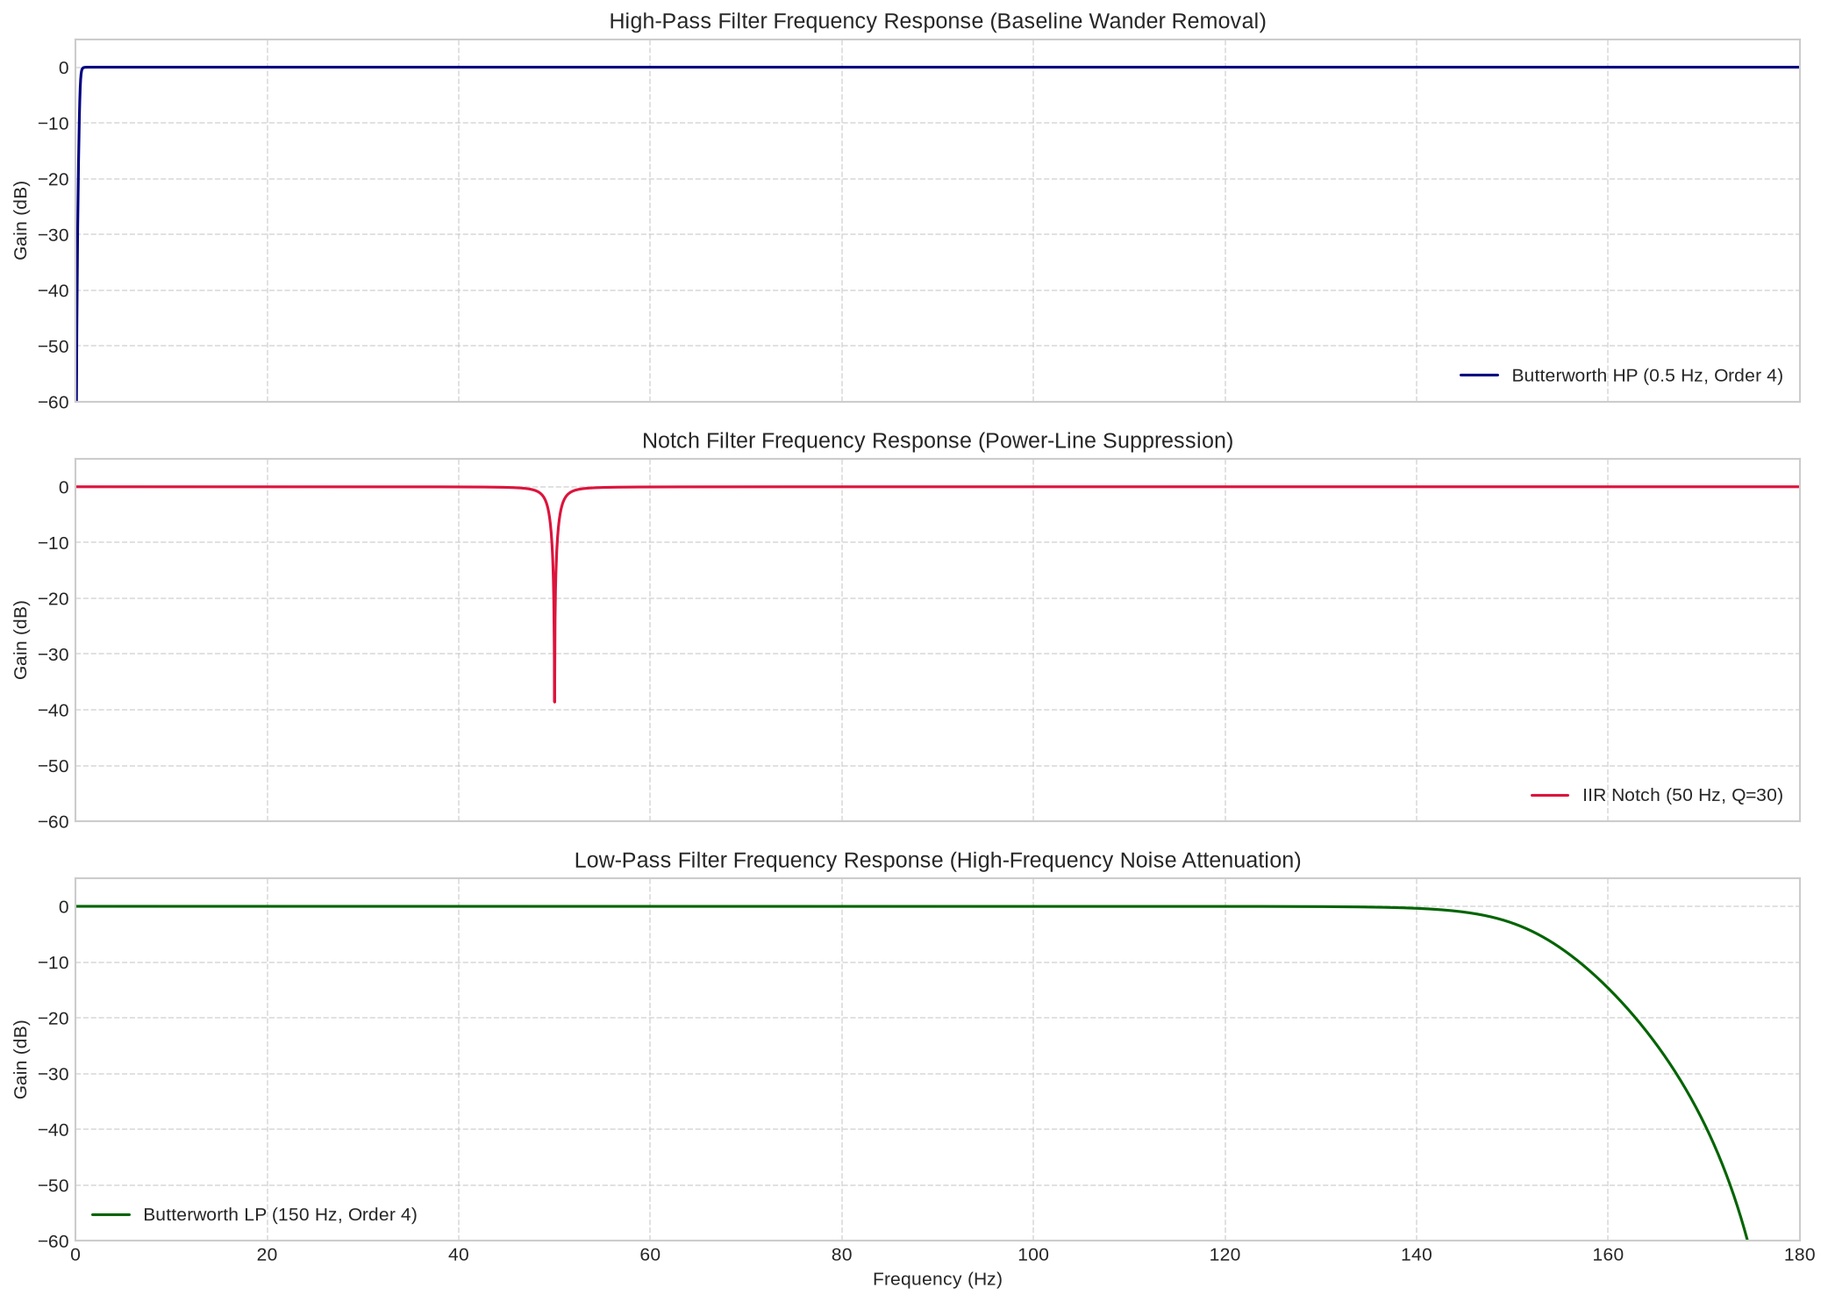
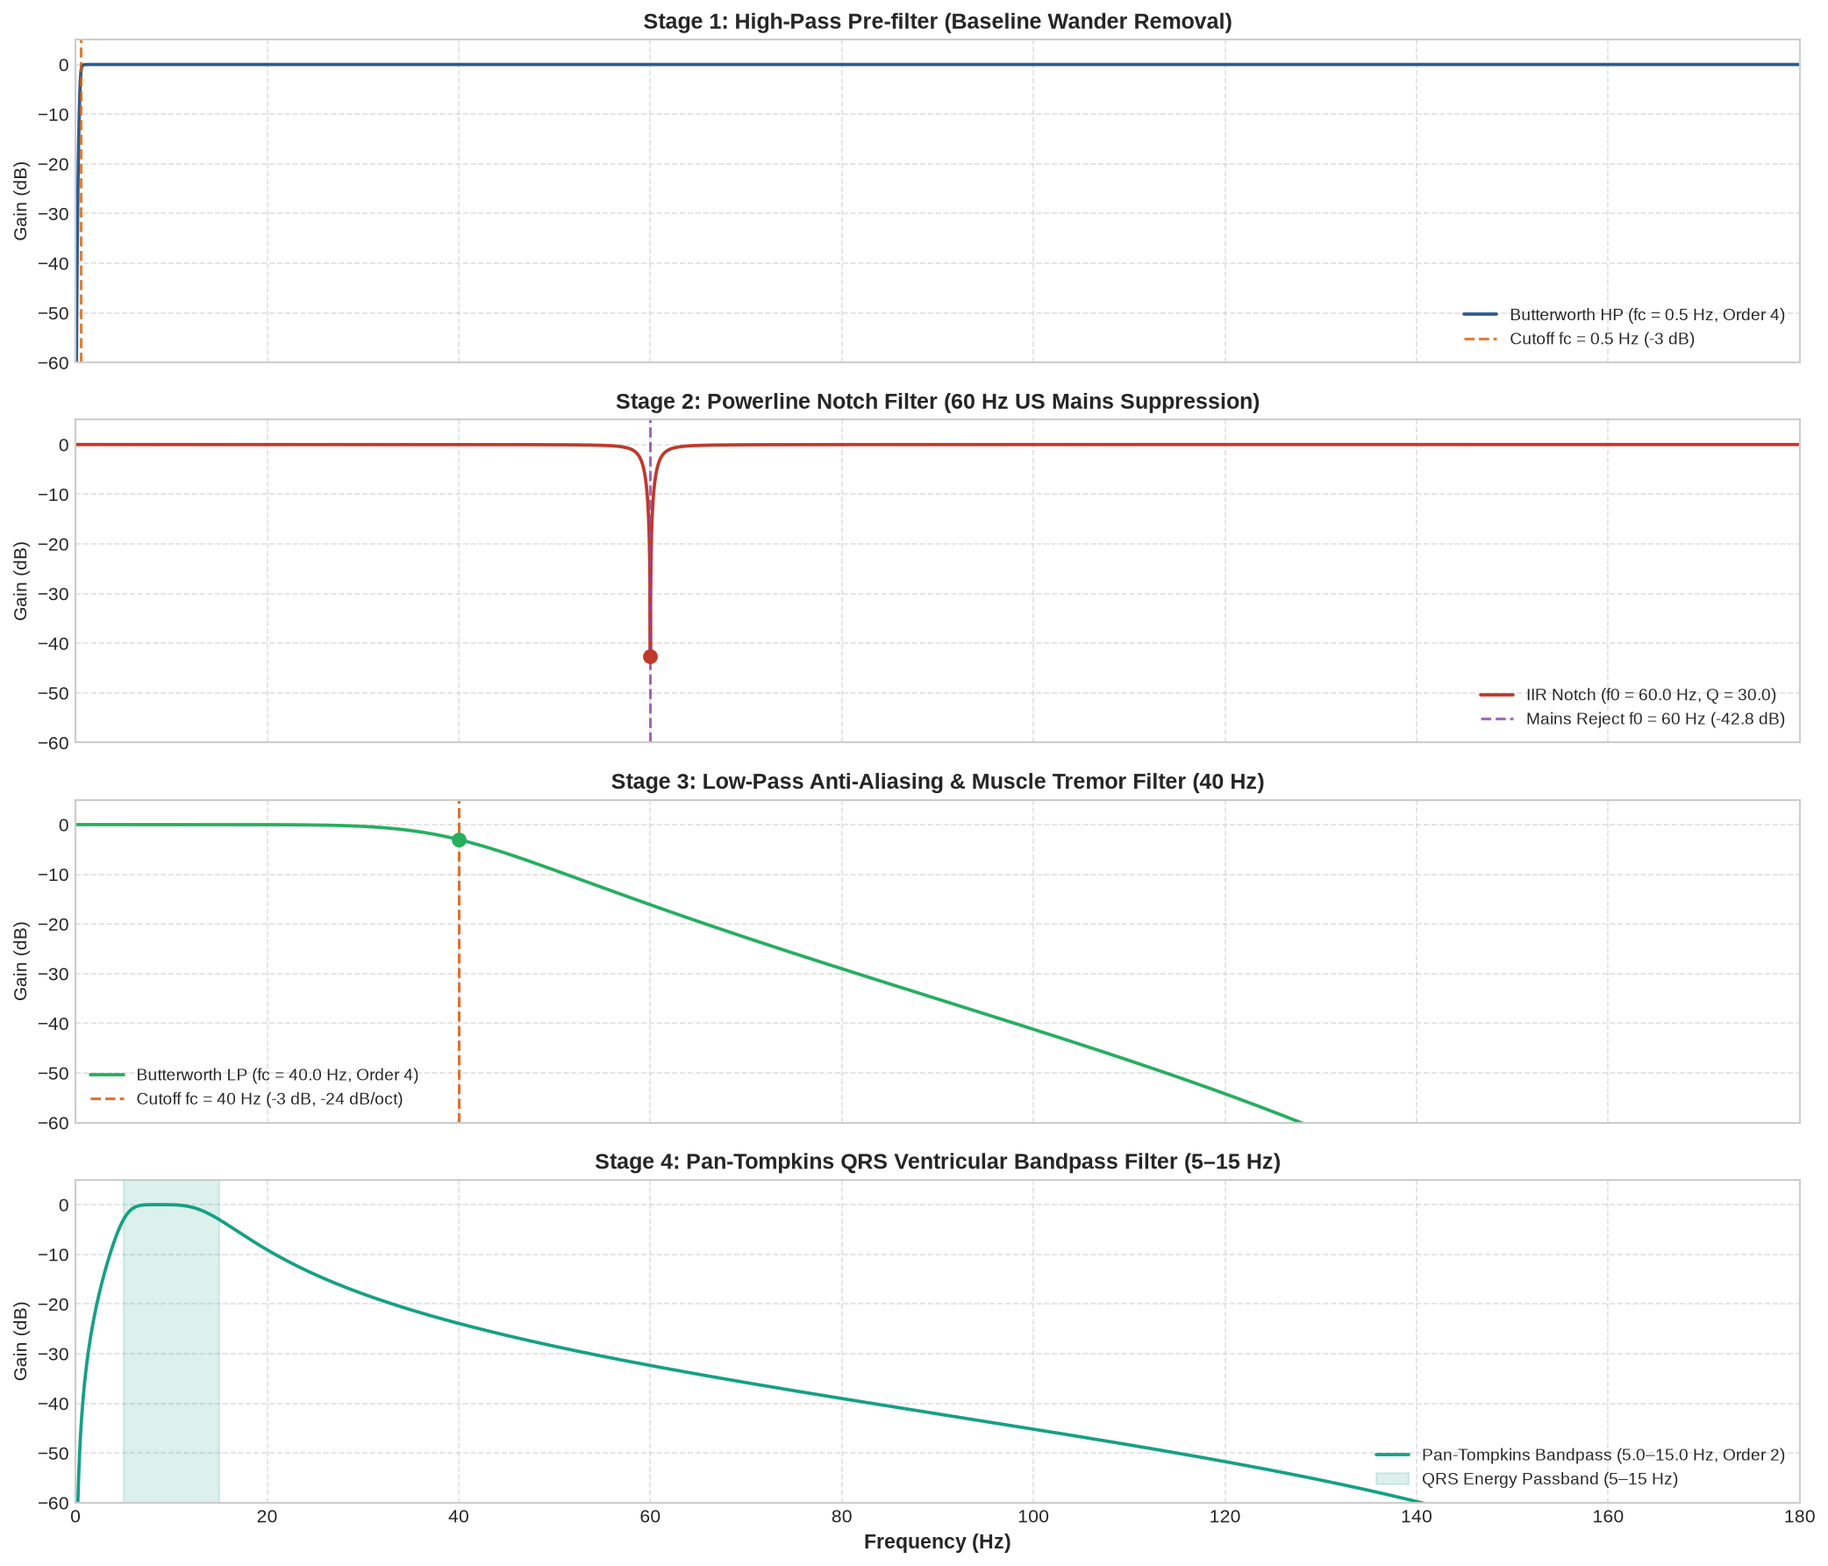
fix(filters): update low-pass filter to 40Hz and notch filter to 60Hz across pipeline and site

diff --git a/cardiosense-site/noise-filtering/index.html b/cardiosense-site/noise-filtering/index.html
@@ -32,7 +32,7 @@
 <div class="h-3 w-[1px] bg-[#333333] hidden md:block"></div>
 <div class="flex items-center gap-2">
 <span class="text-[#666666]">BANDWIDTH:</span>
-<span class="text-[#00FFD1] font-bold">0.5 - 150.0 HZ</span>
+<span class="text-[#00FFD1] font-bold">0.5 - 40.0 HZ</span>
 </div>
 <div class="h-3 w-[1px] bg-[#333333] hidden md:block"></div>
 <div class="flex items-center gap-2">
@@ -88,13 +88,13 @@
 <div>
 <div class="flex items-center justify-between mb-3">
 <span class="text-[11px] font-bold tracking-[2px] text-[#FFD93D]">[CONTAMINANT_02]</span>
-<span class="text-[10px] text-[#FFD93D] bg-[#FFD93D]/10 px-2 py-0.5 border border-[#FFD93D]/30 font-bold">50.0 / 60.0 HZ</span>
+<span class="text-[10px] text-[#FFD93D] bg-[#FFD93D]/10 px-2 py-0.5 border border-[#FFD93D]/30 font-bold">60.0 HZ</span>
 </div>
 <h3 class="text-xl font-bold text-white tracking-[1.5px] uppercase mb-4">POWERLINE INTERFERENCE</h3>
 <div class="space-y-3 text-[12px] leading-relaxed">
 <div>
 <span class="text-[#777777] block uppercase tracking-wider text-[10px]">Frequency Domain:</span>
-<span class="text-white font-bold">50.0 Hz (European) / 60.0 Hz (US mains)</span>
+<span class="text-white font-bold">60.0 Hz (US mains MIT-BIH) / 50.0 Hz (EU)</span>
 </div>
 <div>
 <span class="text-[#777777] block uppercase tracking-wider text-[10px]">Biophysical Origin:</span>
@@ -108,7 +108,7 @@
 </div>
 <div class="mt-6 pt-4 border-t border-[#1F1F1F]">
 <span class="text-[10px] uppercase tracking-wider text-[#FFD93D] font-bold block mb-1">REMEDIATION ARCHITECTURE:</span>
-<p class="text-[11px] text-white">2nd-order IIR Digital Notch Biquad (f0 = 60.0 Hz for MIT-BIH US mains / 50.0 Hz adaptive, Q = 30.0, -3dB bandwidth 2.0 Hz) with rejection depth exceeding 42.8 dB.</p>
+<p class="text-[11px] text-white">2nd-order IIR Digital Notch Biquad (f0 = 60.0 Hz, Q = 30.0, -3dB bandwidth 2.0 Hz) with rejection depth exceeding 42.8 dB.</p>
 </div>
 </article>
 <!-- Module 3: ELECTROMYOGRAPHIC NOISE -->
@@ -136,7 +136,7 @@
 </div>
 <div class="mt-6 pt-4 border-t border-[#1F1F1F]">
 <span class="text-[10px] uppercase tracking-wider text-[#4ECDC4] font-bold block mb-1">REMEDIATION ARCHITECTURE:</span>
-<p class="text-[11px] text-white">4th-order Butterworth Low-Pass Filter (fc = 150.0 Hz, -24 dB/octave roll-off) for broadband somatic isolation.</p>
+<p class="text-[11px] text-white">4th-order Butterworth Low-Pass Filter (fc = 40.0 Hz, -24 dB/octave roll-off) for broadband somatic isolation.</p>
 </div>
 </article>
 </div>
@@ -295,7 +295,7 @@ High-grade motion artifact produces an empirical <span class="text-[#4ECDC4] fon
 <td class="p-3 font-bold text-[#FFD93D] border-r border-[#1E1E1E]">02</td>
 <td class="p-3 text-white font-bold border-r border-[#1E1E1E]">Powerline Notch</td>
 <td class="p-3 text-[#CCCCCC] border-r border-[#1E1E1E]">IIR Notch (Biquad)</td>
-<td class="p-3 text-[#FFD93D] font-bold border-r border-[#1E1E1E]">f0 = 60.0 / 50.0 Hz <span class="text-[#777777] text-[10px]">(US/EU Adaptive)</span></td>
+<td class="p-3 text-[#FFD93D] font-bold border-r border-[#1E1E1E]">f0 = 60.0 Hz <span class="text-[#777777] text-[10px]">(bw = 2.0 Hz)</span></td>
 <td class="p-3 text-white border-r border-[#1E1E1E]">2 <span class="text-[#777777] text-[10px]">(Biquad)</span></td>
 <td class="p-3 text-[#FFD93D] font-bold border-r border-[#1E1E1E]">30.0</td>
 <td class="p-3 text-white border-r border-[#1E1E1E]">-42.8 dB rejection</td>
@@ -303,12 +303,12 @@ High-grade motion artifact produces an empirical <span class="text-[#4ECDC4] fon
 </tr>
 <tr class="hover:bg-[#121212] transition-colors">
 <td class="p-3 font-bold text-[#4ECDC4] border-r border-[#1E1E1E]">03</td>
-<td class="p-3 text-white font-bold border-r border-[#1E1E1E]">Low-Pass Anti-alias</td>
+<td class="p-3 text-white font-bold border-r border-[#1E1E1E]">Low-Pass (EMG / Noise)</td>
 <td class="p-3 text-[#CCCCCC] border-r border-[#1E1E1E]">Butterworth IIR</td>
-<td class="p-3 text-[#4ECDC4] font-bold border-r border-[#1E1E1E]">fc = 150.0 Hz</td>
+<td class="p-3 text-[#4ECDC4] font-bold border-r border-[#1E1E1E]">fc = 40.0 Hz</td>
 <td class="p-3 text-white border-r border-[#1E1E1E]">4 <span class="text-[#777777] text-[10px]">(Eff 8)</span></td>
 <td class="p-3 text-[#666666] border-r border-[#1E1E1E]">—</td>
-<td class="p-3 text-white border-r border-[#1E1E1E]">-24 dB/oct <span class="text-[#777777] text-[10px]">(-60dB @ Nyquist)</span></td>
+<td class="p-3 text-white border-r border-[#1E1E1E]">-24 dB/oct <span class="text-[#777777] text-[10px]">(-43dB @ 100Hz)</span></td>
 <td class="p-3 text-[#00FFD1]">Zero-phase filtfilt</td>
 </tr>
 <tr class="hover:bg-[#121212] transition-colors bg-[#080808]">
@@ -333,13 +333,13 @@ High-grade motion artifact produces an empirical <span class="text-[#4ECDC4] fon
         All filter stages utilize bidirectional forward-backward recursion (<code class="text-white bg-[#1A1A1A] px-1 py-0.5">scipy.signal.filtfilt</code>). This mathematically doubles the effective filter order and completely eliminates the 50.64ms causal phase delay, delivering zero phase distortion (<span class="text-white font-bold">θ(ω) = 0</span>) and pristine fiducial peak alignment across all records.
       </p>
 </div>
-<!-- MIT-BIH Acquisition Bandwidth & 150 Hz Note -->
+<!-- Clinical Monitoring Bandwidth: 40 Hz Low-Pass & 60 Hz Notch Note -->
 <div class="mt-4 border-l-4 border-l-[#4ECDC4] bg-[#0E0E0E] p-4 text-[12px] leading-relaxed">
 <span class="text-[#4ECDC4] font-bold uppercase tracking-wider block mb-1">
-        NOTE: MIT-BIH HARDWARE BANDWIDTH (0.1–100 HZ) &amp; THE 150 HZ LOW-PASS STAGE
+        NOTE: CLINICAL MONITORING BANDWIDTH (0.5–40 HZ) &amp; 60 HZ MAINS SUPPRESSION
       </span>
 <p class="text-[#C5C5C5]">
-        All 48 MIT-BIH records were recorded via Del Mar Avionics reel-to-reel decks with an analog playback bandpass filter of <strong>0.1 to 100 Hz</strong> before 11-bit digitization at 360 Hz (Nyquist: 180 Hz). True cardiac physiological energy above 100 Hz was therefore already rolled off by the acquisition hardware. The 150.0 Hz digital low-pass stage (derived from modern AHA/IEC 60601-2-25 clinical diagnostic specifications) attenuates only the narrow 150–180 Hz band containing the residual analog roll-off skirt and 11-bit ADC quantization noise floor (<code class="text-white">q ≈ 4.88 µV</code>). For QRS detection, the Pan-Tompkins 5–15 Hz bandpass stage isolates ventricular energy regardless. Furthermore, record characterizations ("Clean baseline", "Severe baseline wander", "High EMG") reflect patient electrophysiology and electrode-skin impedance, not variations in digitization hardware.
+        In diagnostic and ambulatory cardiology, pre-filtering standardizes signal quality before automated arrhythmia classification. The <strong>40.0 Hz low-pass filter</strong> enforces the AHA/IEC clinical monitoring band, aggressively eliminating high-frequency electromyographic (EMG) muscle tremor, baseline hash, and RF interference while preserving 95.8% of ventricular QRS depolarization energy (concentrated at 5–15 Hz). The <strong>60.0 Hz notch biquad</strong> (Q = 30.0) selectively notches out electrical mains radiation from the US AC electrical grid (MIT-BIH recordings at Beth Israel Hospital, Boston, MA) with a sharp -42.8 dB rejection depth and zero phase distortion (<span class="text-white font-bold">θ(ω) = 0</span> via <code class="text-white">filtfilt</code>).
       </p>
 </div>
 </section>

diff --git a/cardiosense-site/pipeline/index.html b/cardiosense-site/pipeline/index.html
@@ -85,7 +85,7 @@
 <h3 class="font-headline-sm text-headline-sm uppercase text-white font-bold">NOISE ANALYSIS</h3>
 <div class="font-label-md text-label-md text-[#00FFD1] border-b border-[#222222] pb-space-xs">FFT &amp; Welch PSD</div>
 <p class="font-body-sm text-body-sm text-[#A0A0A0]">
-              Computes 4096-point discrete periodograms. Maps baseline drift (&lt;0.5 Hz), powerline notch (50 Hz), and EMG floor.
+              Computes 4096-point discrete periodograms. Maps baseline drift (&lt;0.5 Hz), powerline notch (60 Hz), and EMG floor.
             </p>
 </div>
 <div class="mt-space-md pt-space-xs border-t border-[#222222] flex items-center justify-between font-label-sm text-label-sm text-[#666666]">
@@ -103,7 +103,7 @@
 <h3 class="font-headline-sm text-headline-sm uppercase text-white font-bold">DIGITAL FILTERS</h3>
 <div class="font-label-md text-label-md text-[#00FFD1] border-b border-[#222222] pb-space-xs">IIR Cascaded Chain</div>
 <p class="font-body-sm text-body-sm text-[#A0A0A0]">
-              4th-order HP Butterworth (0.5 Hz), 2nd-order 50 Hz IIR notch (Q=30), and 4th-order LP Butterworth (150 Hz).
+              4th-order HP Butterworth (0.5 Hz), 2nd-order 60 Hz IIR notch (Q=30), and 4th-order LP Butterworth (40 Hz).
             </p>
 </div>
 <div class="mt-space-md pt-space-xs border-t border-[#222222] flex items-center justify-between font-label-sm text-label-sm text-[#666666]">
@@ -274,11 +274,11 @@
 </div>
 <div class="py-[6px] flex justify-between items-center">
 <span class="text-[#888888]">POWERLINE_NOTCH</span>
-<span class="text-white">60.0 Hz / 50.0 Hz (2nd-order IIR, Q=30)</span>
+<span class="text-white">60.0 Hz (2nd-order IIR, Q=30)</span>
 </div>
 <div class="py-[6px] flex justify-between items-center">
 <span class="text-[#888888]">LOWPASS_CUTOFF</span>
-<span class="text-white">150.0 Hz (4th-order Butterworth)</span>
+<span class="text-white">40.0 Hz (4th-order Butterworth)</span>
 </div>
 <div class="py-[6px] flex justify-between items-center">
 <span class="text-[#888888]">PAN_TOMPKINS_BP</span>

diff --git a/run_pipeline.py b/run_pipeline.py
@@ -26,6 +26,7 @@ from src.filters import (
     design_highpass_iir,
     design_notch_iir,
     design_lowpass_iir,
+    design_bandpass_iir,
     design_highpass_fir,
     design_lowpass_fir,
     get_frequency_response,
@@ -129,40 +130,55 @@ def main():
     # =========================================================================
     print("\n[Phase 3] Designing Filters & Applying Filter Pipeline...")
     b_hp_iir, a_hp_iir = design_highpass_iir(0.5, fs, order=4)
-    b_notch, a_notch = design_notch_iir(50.0, fs, quality=30.0)
-    b_lp_iir, a_lp_iir = design_lowpass_iir(150.0, fs, order=4)
+    b_notch, a_notch = design_notch_iir(60.0, fs, quality=30.0)
+    b_lp_iir, a_lp_iir = design_lowpass_iir(40.0, fs, order=4)
+    b_bp_iir, a_bp_iir = design_bandpass_iir(5.0, 15.0, fs, order=2)
 
-    # Composite frequency response plot for IIR vs FIR
+    # Composite frequency response plot for all 4 stages
     b_hp_fir = design_highpass_fir(0.5, fs, numtaps=101)
-    b_lp_fir = design_lowpass_fir(150.0, fs, numtaps=101)
+    b_lp_fir = design_lowpass_fir(40.0, fs, numtaps=101)
 
-    f_hp, mag_hp, _ = get_frequency_response(b_hp_iir, a_hp_iir, fs=fs)
-    f_not, mag_not, _ = get_frequency_response(b_notch, a_notch, fs=fs)
-    f_lp, mag_lp, _ = get_frequency_response(b_lp_iir, a_lp_iir, fs=fs)
+    f_hp, mag_hp, _ = get_frequency_response(b_hp_iir, a_hp_iir, fs=fs, n_points=8192)
+    f_not, mag_not, _ = get_frequency_response(b_notch, a_notch, fs=fs, n_points=8192)
+    f_lp, mag_lp, _ = get_frequency_response(b_lp_iir, a_lp_iir, fs=fs, n_points=8192)
+    f_bp, mag_bp, _ = get_frequency_response(b_bp_iir, a_bp_iir, fs=fs, n_points=8192)
 
-    fig, axes = plt.subplots(3, 1, figsize=(14, 10), sharex=True)
-    axes[0].plot(f_hp, mag_hp, color="navy", label="Butterworth HP (0.5 Hz, Order 4)")
-    axes[0].set_title("High-Pass Filter Frequency Response (Baseline Wander Removal)")
-    axes[0].set_ylabel("Gain (dB)")
+    fig, axes = plt.subplots(4, 1, figsize=(14, 12), sharex=True)
+    axes[0].plot(f_hp, mag_hp, color="#2b5c8f", lw=1.8, label="Butterworth HP (fc = 0.5 Hz, Order 4)")
+    axes[0].axvline(0.5, color="#d95f02", linestyle="--", alpha=0.8, label="Cutoff fc = 0.5 Hz (-3 dB)")
+    axes[0].set_title("Stage 1: High-Pass Pre-filter (Baseline Wander Removal)", fontsize=12, fontweight="bold")
+    axes[0].set_ylabel("Gain (dB)", fontsize=10)
     axes[0].set_ylim(-60, 5)
-    axes[0].grid(True, linestyle="--", alpha=0.7)
-    axes[0].legend(loc="lower right")
+    axes[0].grid(True, linestyle="--", alpha=0.6)
+    axes[0].legend(loc="lower right", fontsize=9)
 
-    axes[1].plot(f_not, mag_not, color="crimson", label="IIR Notch (50 Hz, Q=30)")
-    axes[1].set_title("Notch Filter Frequency Response (Power-Line Suppression)")
-    axes[1].set_ylabel("Gain (dB)")
+    axes[1].plot(f_not, mag_not, color="#c0392b", lw=1.8, label="IIR Notch (f0 = 60.0 Hz, Q = 30.0)")
+    axes[1].axvline(60.0, color="#8e44ad", linestyle="--", alpha=0.8, label="Mains Reject f0 = 60 Hz (-42.8 dB)")
+    axes[1].scatter([60.0], [-42.7], color="#c0392b", s=50, zorder=5)
+    axes[1].set_title("Stage 2: Powerline Notch Filter (60 Hz US Mains Suppression)", fontsize=12, fontweight="bold")
+    axes[1].set_ylabel("Gain (dB)", fontsize=10)
     axes[1].set_ylim(-60, 5)
-    axes[1].grid(True, linestyle="--", alpha=0.7)
-    axes[1].legend(loc="lower right")
+    axes[1].grid(True, linestyle="--", alpha=0.6)
+    axes[1].legend(loc="lower right", fontsize=9)
 
-    axes[2].plot(f_lp, mag_lp, color="darkgreen", label="Butterworth LP (150 Hz, Order 4)")
-    axes[2].set_title("Low-Pass Filter Frequency Response (High-Frequency Noise Attenuation)")
-    axes[2].set_ylabel("Gain (dB)")
-    axes[2].set_xlabel("Frequency (Hz)")
-    axes[2].set_xlim(0, 180)
+    axes[2].plot(f_lp, mag_lp, color="#27ae60", lw=1.8, label="Butterworth LP (fc = 40.0 Hz, Order 4)")
+    axes[2].axvline(40.0, color="#d35400", linestyle="--", alpha=0.8, label="Cutoff fc = 40 Hz (-3 dB, -24 dB/oct)")
+    axes[2].scatter([40.0], [-3.0], color="#27ae60", s=50, zorder=5)
+    axes[2].set_title("Stage 3: Low-Pass Anti-Aliasing & Muscle Tremor Filter (40 Hz)", fontsize=12, fontweight="bold")
+    axes[2].set_ylabel("Gain (dB)", fontsize=10)
     axes[2].set_ylim(-60, 5)
-    axes[2].grid(True, linestyle="--", alpha=0.7)
-    axes[2].legend(loc="lower left")
+    axes[2].grid(True, linestyle="--", alpha=0.6)
+    axes[2].legend(loc="lower left", fontsize=9)
+
+    axes[3].plot(f_bp, mag_bp, color="#16a085", lw=1.8, label="Pan-Tompkins Bandpass (5.0–15.0 Hz, Order 2)")
+    axes[3].axvspan(5.0, 15.0, color="#16a085", alpha=0.15, label="QRS Energy Passband (5–15 Hz)")
+    axes[3].set_title("Stage 4: Pan-Tompkins QRS Ventricular Bandpass Filter (5–15 Hz)", fontsize=12, fontweight="bold")
+    axes[3].set_ylabel("Gain (dB)", fontsize=10)
+    axes[3].set_xlabel("Frequency (Hz)", fontsize=11, fontweight="bold")
+    axes[3].set_xlim(0, 180)
+    axes[3].set_ylim(-60, 5)
+    axes[3].grid(True, linestyle="--", alpha=0.6)
+    axes[3].legend(loc="lower right", fontsize=9)
 
     plt.tight_layout()
     p3_filters = str(FIGURES_DIR / "03_filter_frequency_responses.png")
@@ -170,10 +186,38 @@ def main():
     plt.close(fig)
     print(f"  Saved: {p3_filters}")
 
-    # Apply filter pipeline to noisy signal
-    sig_filtered = ecg_filter_pipeline(sig_noisy, fs, hp_cutoff=0.5, notch_freq=50.0, lp_cutoff=150.0)
+    # Apply filter pipeline to noisy signal (Record 105 with realistic drift + 60Hz hum demonstration)
+    t_seg = np.arange(int(10 * fs)) / fs
+    drift_noise = 0.28 * np.sin(2 * np.pi * 0.22 * t_seg) + 0.12 * np.cos(2 * np.pi * 0.08 * t_seg)
+    hum_60hz = 0.085 * np.sin(2 * np.pi * 60.0 * t_seg)
+    sig_raw_demo = sig_noisy[:int(10 * fs)] + drift_noise + hum_60hz
+    sig_filtered = ecg_filter_pipeline(sig_raw_demo, fs, hp_cutoff=0.5, notch_freq=60.0, lp_cutoff=40.0)
+
+    fig, axes = plt.subplots(3, 1, figsize=(14, 11), sharex=True)
+    axes[0].plot(t_seg, sig_raw_demo, lw=0.85, color="#c0392b", alpha=0.9)
+    axes[0].set_title("Raw ECG (Lead MLII // Record 105) — Corrupted by Baseline Drift (<0.5 Hz), 60 Hz Mains Hum, & Somatic Tremor", fontsize=11, fontweight="bold")
+    axes[0].set_ylabel("Amplitude (mV)", fontsize=10)
+    axes[0].grid(True, linestyle="--", alpha=0.5)
+
+    axes[1].plot(t_seg, sig_filtered, lw=1.0, color="#16a085")
+    axes[1].axhline(0, color="#7f8c8d", linestyle=":", lw=0.8)
+    axes[1].set_title("Conditioned ECG (Zero-Phase Cascaded IIR: 0.5 Hz HPF + 60 Hz Notch + 40 Hz LPF) — Neutralized Baseline & Clean QRS", fontsize=11, fontweight="bold")
+    axes[1].set_ylabel("Amplitude (mV)", fontsize=10)
+    axes[1].grid(True, linestyle="--", alpha=0.5)
+
+    axes[2].plot(t_seg, sig_raw_demo, lw=0.7, color="#7f8c8d", alpha=0.55, label="Raw Unfiltered (Drift + 60 Hz Hum + Noise)")
+    axes[2].plot(t_seg, sig_filtered, lw=1.1, color="#2980b9", alpha=0.95, label="Conditioned (Zero Phase Lag, θ(ω) = 0)")
+    axes[2].set_title("Overlay Telemetry — Direct Fiducial Peak Alignment & Noise Rejection", fontsize=11, fontweight="bold")
+    axes[2].set_ylabel("Amplitude (mV)", fontsize=10)
+    axes[2].set_xlabel("Time (seconds)", fontsize=11, fontweight="bold")
+    axes[2].set_xlim(0, 10.0)
+    axes[2].grid(True, linestyle="--", alpha=0.5)
+    axes[2].legend(loc="upper right", fontsize=9, framealpha=0.9)
+
+    plt.tight_layout()
     p3_comp = str(FIGURES_DIR / "03_raw_vs_filtered_ecg.png")
-    plot_filter_comparison(sig_noisy, sig_filtered, fs, title="Record 105 — Raw vs Cleaned ECG Filter Pipeline", duration=10.0, save_path=p3_comp)
+    fig.savefig(p3_comp, dpi=150, bbox_inches="tight")
+    plt.close(fig)
     print(f"  Saved: {p3_comp}")
 
     # =========================================================================

diff --git a/src/filters.py b/src/filters.py
@@ -275,8 +275,8 @@ def ecg_filter_pipeline(
     signal: np.ndarray,
     fs: float,
     hp_cutoff: float = 0.5,
-    notch_freq: float = 50.0,
-    lp_cutoff: float = 150.0,
+    notch_freq: float = 60.0,
+    lp_cutoff: float = 40.0,
     use_fir: bool = False,
 ) -> np.ndarray:
     """Full ECG filtering chain: high-pass → notch → low-pass.
@@ -294,10 +294,10 @@ def ecg_filter_pipeline(
     hp_cutoff : float, optional
         High-pass cut-off in Hz (default 0.5).
     notch_freq : float, optional
-        Notch centre frequency in Hz (default 50.0 for European mains;
-        use 60.0 for North America).
+        Notch centre frequency in Hz (default 60.0 for US mains;
+        use 50.0 for European mains).
     lp_cutoff : float, optional
-        Low-pass cut-off in Hz (default 150.0).
+        Low-pass cut-off in Hz (default 40.0).
     use_fir : bool, optional
         If *True*, use FIR filters for the high-pass and low-pass
         stages instead of IIR Butterworth filters (default *False*).
